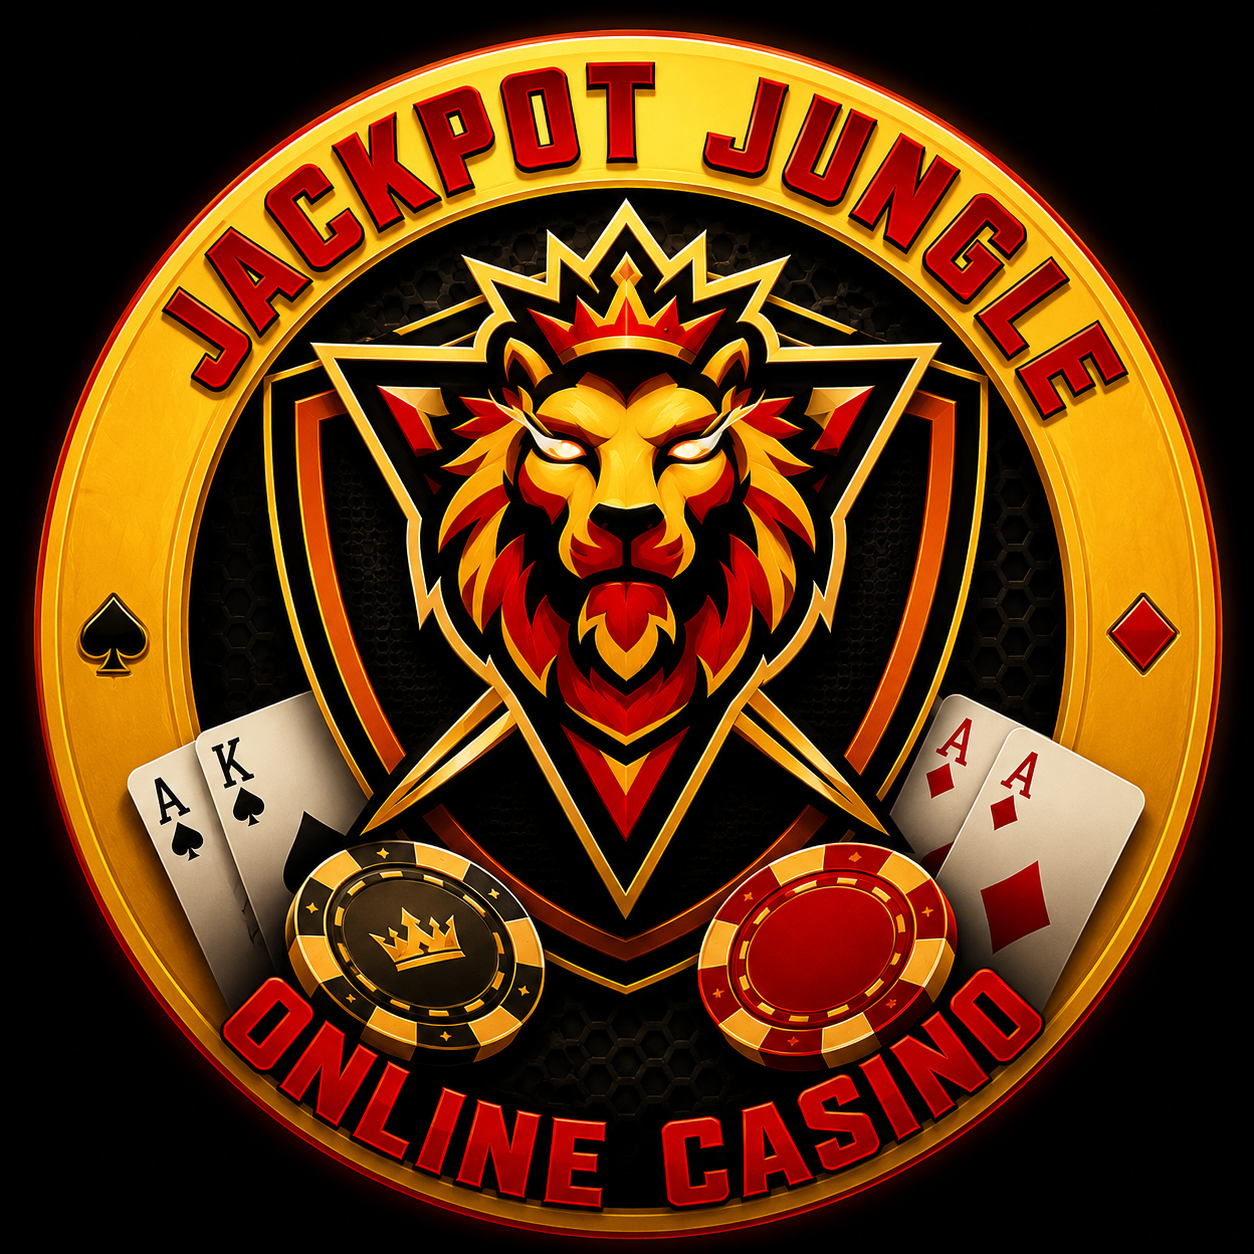
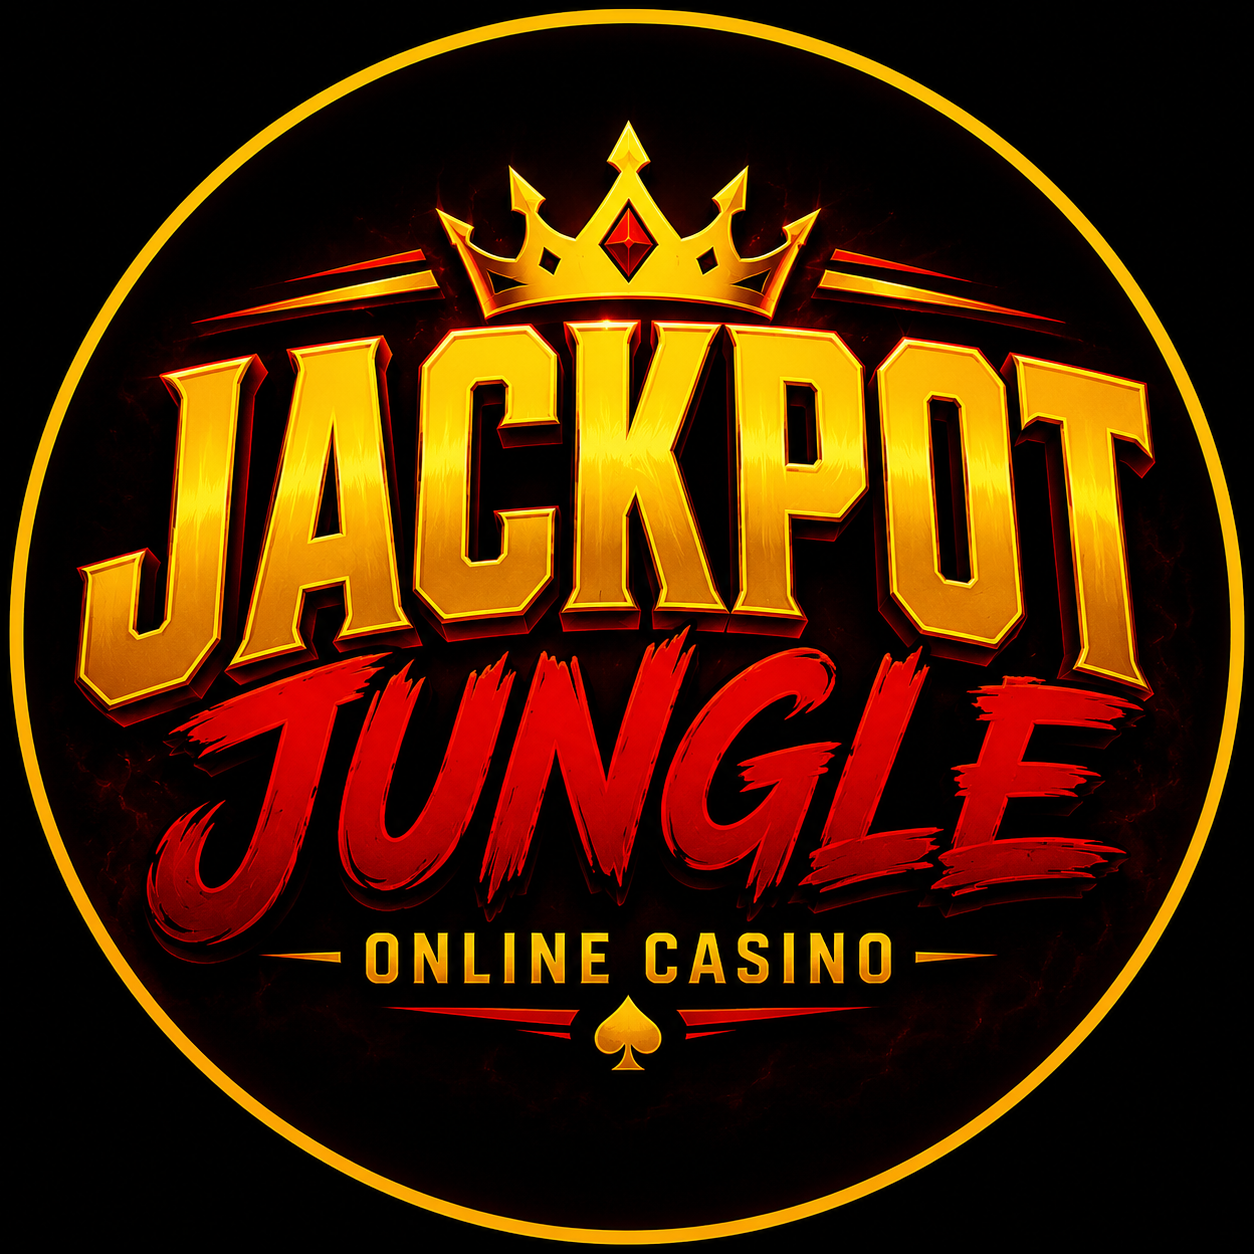
Replace native browser confirm dialog with premium centered modal Dialog for removing group chat members

diff --git a/src/routes/app/_authenticated/chat.$friendId.tsx b/src/routes/app/_authenticated/chat.$friendId.tsx
@@ -488,6 +488,7 @@ function ChatView() {
   const [addMembersOpen, setAddMembersOpen] = useState(false);
   const [shareOpen, setShareOpen] = useState(false);
   const [createGroupOpen, setCreateGroupOpen] = useState(false);
+  const [memberToRemove, setMemberToRemove] = useState<{ id: string; username: string } | null>(null);
   const { isAdmin, isSuperAdmin } = useRole();
 
   const myMemberInfo = groupMembers.find(m => m.profiles?.id === meId);
@@ -1677,9 +1678,13 @@ function ChatView() {
   }
 
   async function handleRemoveMember(memberId: string, memberUsername: string) {
-    if (!groupId || !meId) return;
-    const confirmRemove = window.confirm(`Remove ${memberUsername} from group?`);
-    if (!confirmRemove) return;
+    setMemberToRemove({ id: memberId, username: memberUsername });
+  }
+
+  async function confirmExecuteRemoveMember() {
+    if (!groupId || !meId || !memberToRemove) return;
+    const { id: memberId, username: memberUsername } = memberToRemove;
+    setMemberToRemove(null);
 
     try {
       if (memberId === "support-page-temp") {
@@ -2880,6 +2885,37 @@ function ChatView() {
           navigate({ to: "/app/chat/$friendId", params: { friendId: `group-${newGroupId}` } });
         }}
       />
+
+      {/* Member Removal Confirmation Dialog */}
+      <Dialog open={memberToRemove !== null} onOpenChange={(val) => { if (!val) setMemberToRemove(null); }}>
+        <DialogContent className="w-full max-w-sm p-6 bg-card border border-border rounded-3xl shadow-2xl flex flex-col gap-4 text-foreground text-center animate-in zoom-in-95 duration-200">
+          <div className="flex flex-col items-center gap-3">
+            <div className="h-12 w-12 rounded-full bg-destructive/10 text-destructive flex items-center justify-center">
+              <UserMinus className="h-6 w-6" />
+            </div>
+            <h3 className="font-bold text-lg">Remove Member</h3>
+            <p className="text-sm text-muted-foreground leading-relaxed">
+              Are you sure you want to remove <span className="font-semibold text-foreground">@{memberToRemove?.username}</span> from the group?
+            </p>
+          </div>
+          <div className="flex gap-3 mt-2">
+            <Button
+              variant="outline"
+              onClick={() => setMemberToRemove(null)}
+              className="flex-1 rounded-xl h-11 text-xs font-bold"
+            >
+              Cancel
+            </Button>
+            <Button
+              variant="destructive"
+              onClick={confirmExecuteRemoveMember}
+              className="flex-1 rounded-xl h-11 text-xs font-bold bg-destructive text-destructive-foreground hover:bg-destructive/90"
+            >
+              Remove
+            </Button>
+          </div>
+        </DialogContent>
+      </Dialog>
     </div>
   );
 }